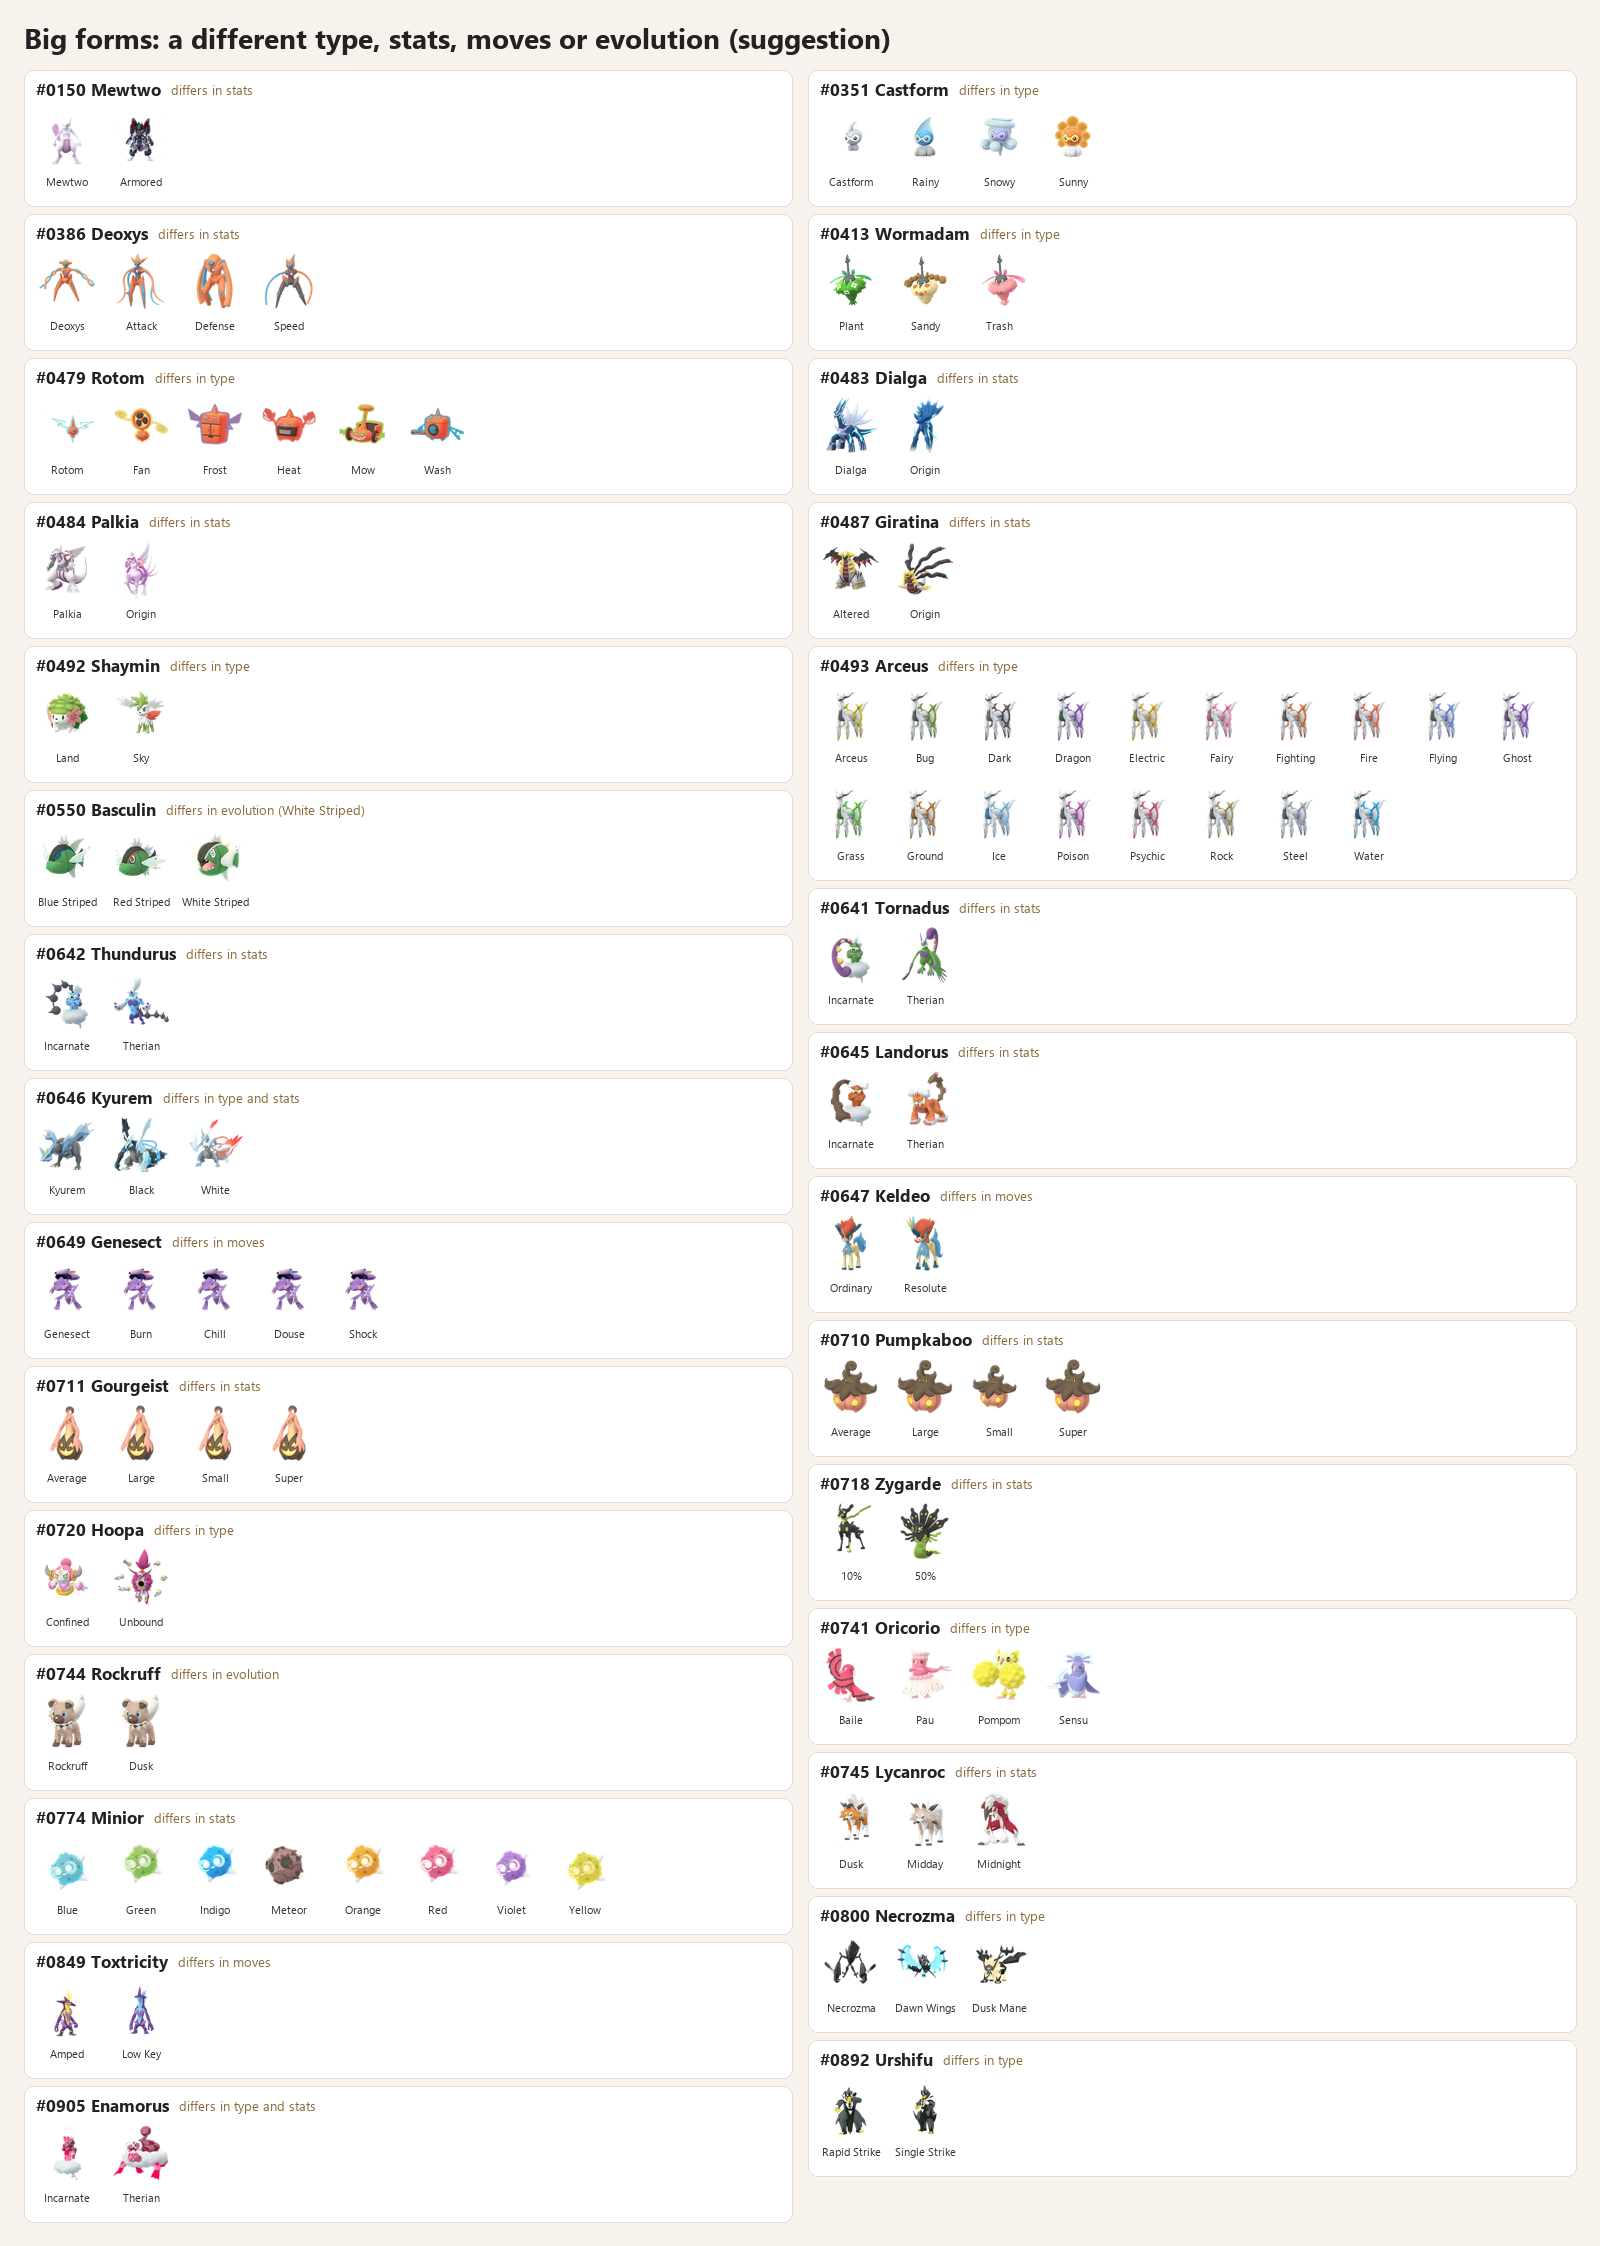
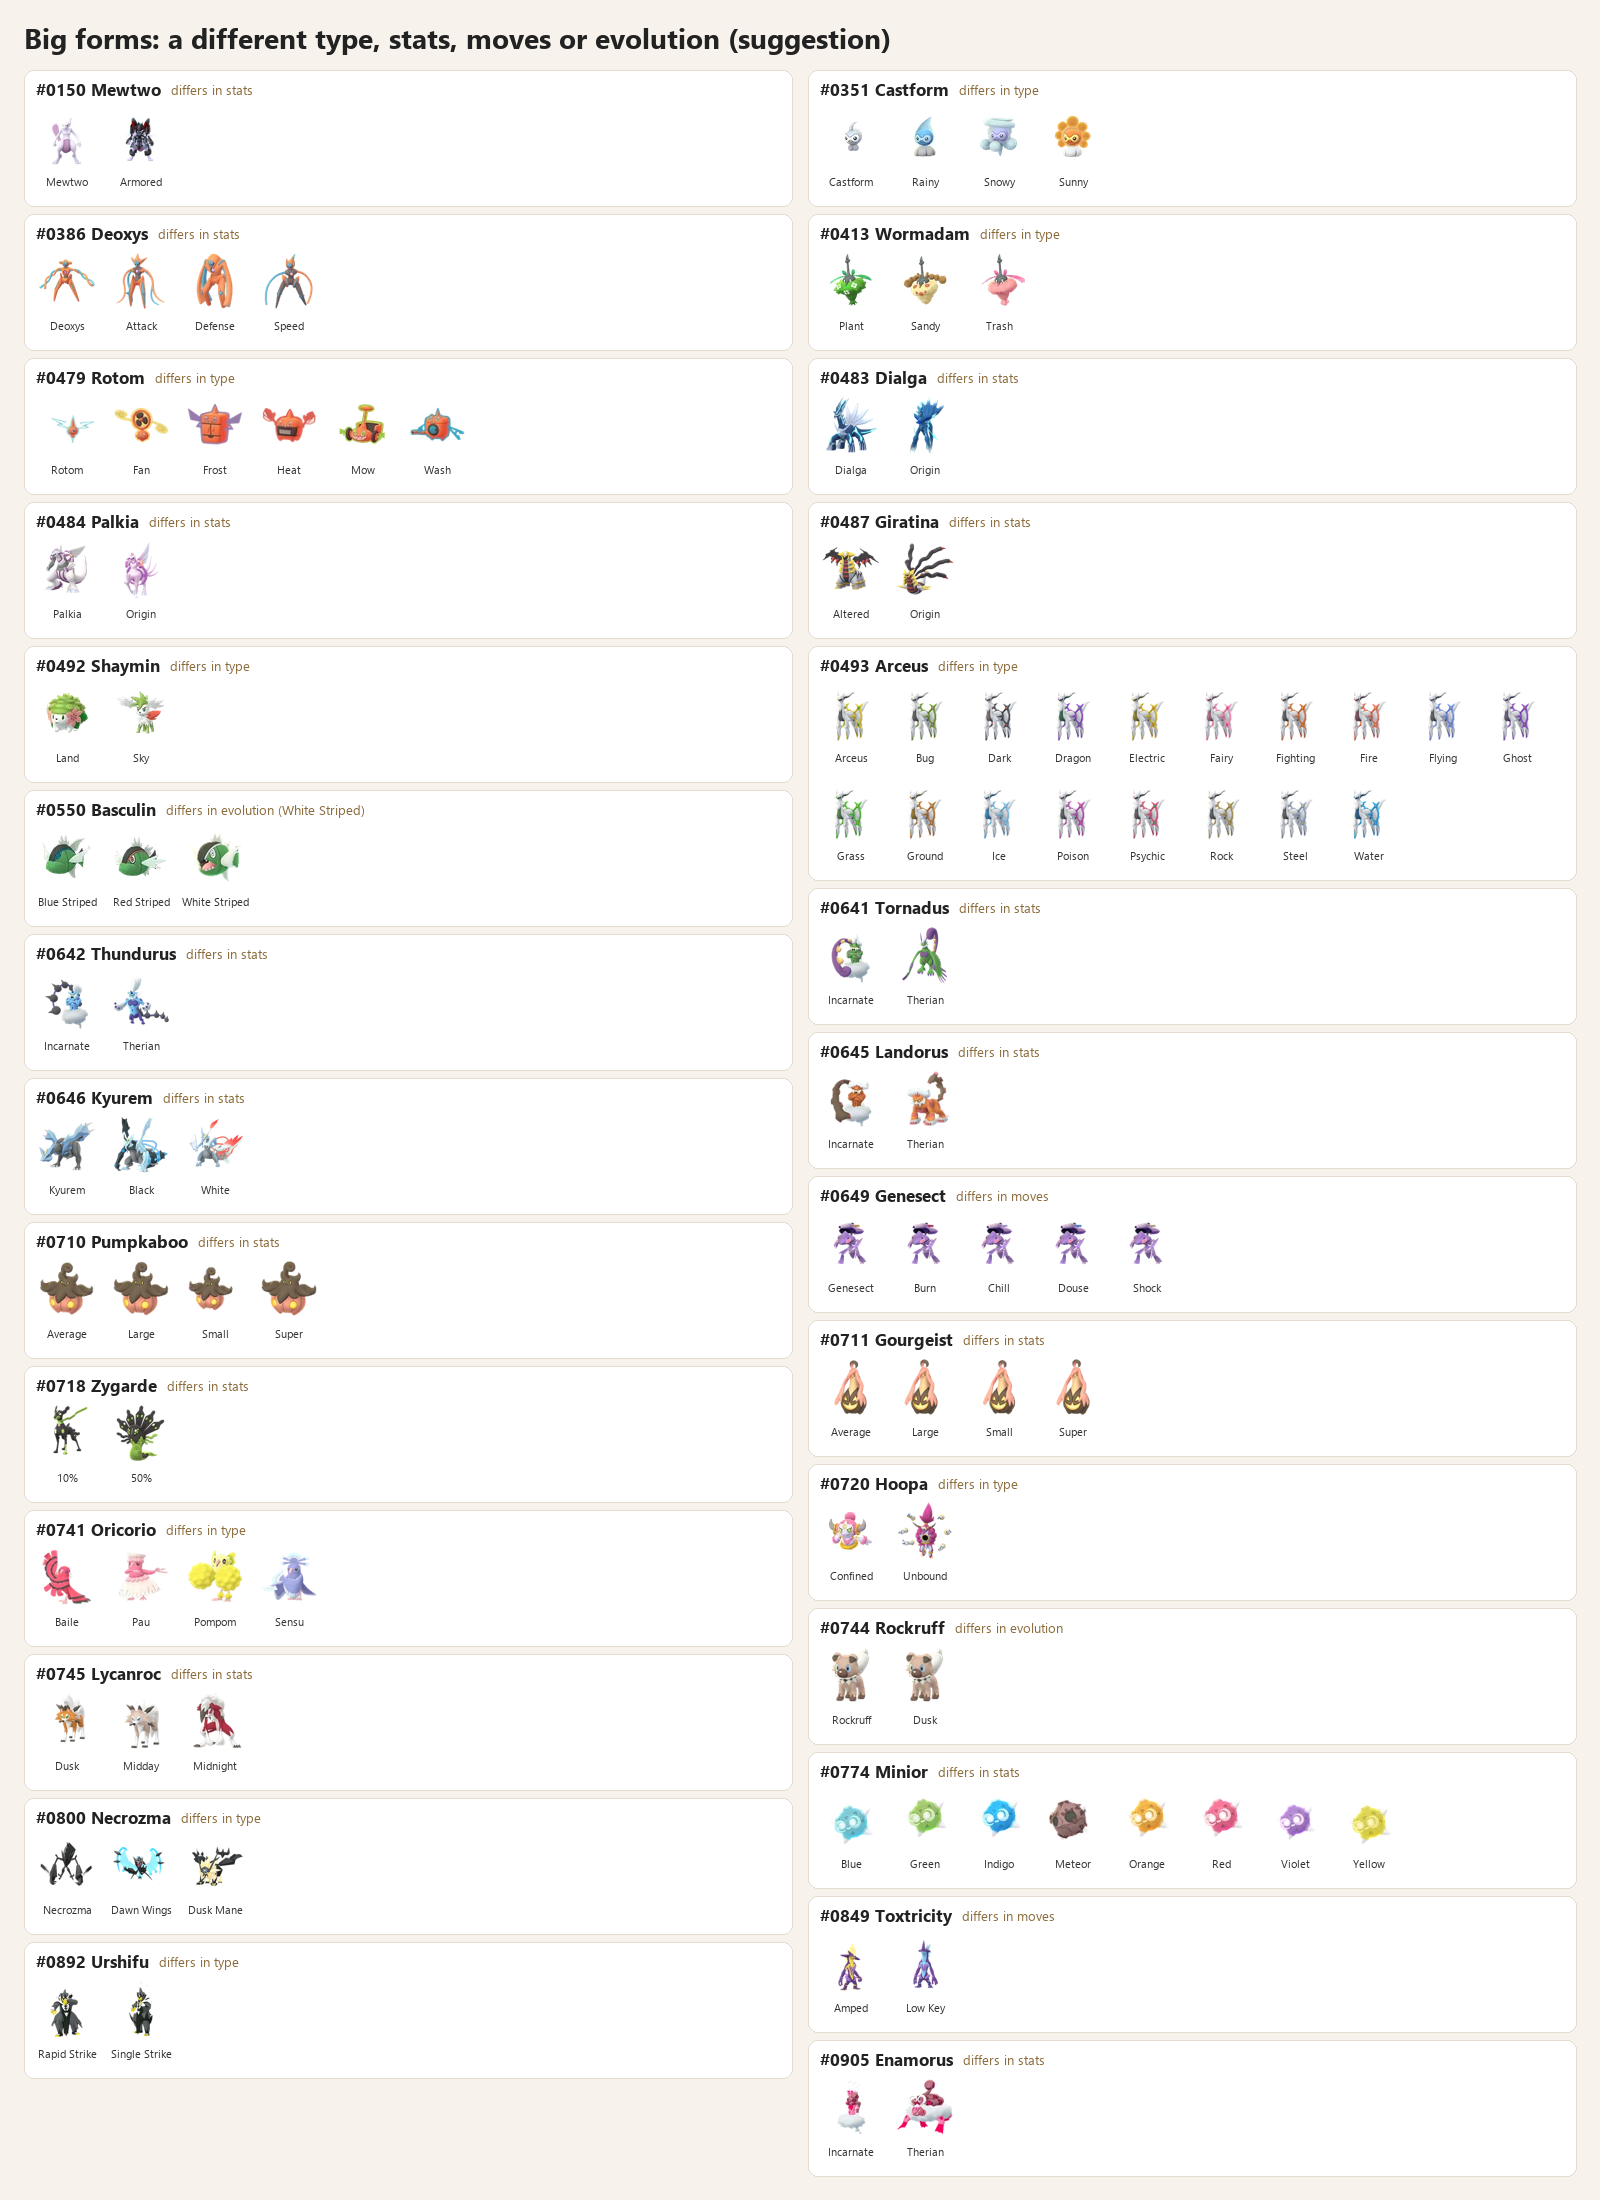
Forms list: Kyurem and Enamorus differ in stats only (same type); Keldeo's Resolute form is a look

diff --git a/tools/forms_sheet.py b/tools/forms_sheet.py
@@ -11,9 +11,9 @@ for e in sorted(d, key=lambda e: e['dex']):
 multi = {k: v for k, v in by.items() if len(v) > 1}
 # suggestion: forms that are a different battle form (another type, stats or moves in the games) vs ones that only look different
 BIG = {150: 'stats', 351: 'type', 386: 'stats', 413: 'type', 479: 'type', 483: 'stats', 484: 'stats', 487: 'stats', 492: 'type',
-       493: 'type', 550: 'evolution (White Striped)', 555: 'type', 641: 'stats', 642: 'stats', 645: 'stats', 646: 'type and stats', 647: 'moves',
+       493: 'type', 550: 'evolution (White Striped)', 555: 'type', 641: 'stats', 642: 'stats', 645: 'stats', 646: 'stats',
        649: 'moves', 718: 'stats', 720: 'type', 741: 'type', 744: 'evolution', 745: 'stats', 774: 'stats', 800: 'type', 849: 'moves',
-       892: 'type', 905: 'type and stats', 710: 'stats', 711: 'stats'}
+       892: 'type', 905: 'stats', 710: 'stats', 711: 'stats'}
 spr = lambda img: next((p for p in (f'{R}/site/sprites/{img}.webp', f'{R}/site/sprites/{img}.png') if os.path.exists(p)), None)
 F = lambda n, b=False: ImageFont.truetype('C:/Windows/Fonts/segoeuib.ttf' if b else 'C:/Windows/Fonts/segoeui.ttf', n)
 def label(e): return e.get('form') or e['name']

diff --git a/for-jemma/forms-to-decide.md b/for-jemma/forms-to-decide.md
@@ -20,8 +20,7 @@ The split into “big” and “looks only” is Claude’s suggestion (from the
 - [ ] **#0641 Tornadus** (stats): Incarnate, Therian
 - [ ] **#0642 Thundurus** (stats): Incarnate, Therian
 - [ ] **#0645 Landorus** (stats): Incarnate, Therian
-- [ ] **#0646 Kyurem** (type and stats): Kyurem, Black, White
-- [ ] **#0647 Keldeo** (moves): Ordinary, Resolute
+- [ ] **#0646 Kyurem** (stats): Kyurem, Black, White
 - [ ] **#0649 Genesect** (moves): Genesect, Burn, Chill, Douse, Shock
 - [ ] **#0710 Pumpkaboo** (stats): Average, Large, Small, Super
 - [ ] **#0711 Gourgeist** (stats): Average, Large, Small, Super
@@ -34,7 +33,7 @@ The split into “big” and “looks only” is Claude’s suggestion (from the
 - [ ] **#0800 Necrozma** (type): Necrozma, Dawn Wings, Dusk Mane
 - [ ] **#0849 Toxtricity** (moves): Amped, Low Key
 - [ ] **#0892 Urshifu** (type): Rapid Strike, Single Strike
-- [ ] **#0905 Enamorus** (type and stats): Incarnate, Therian
+- [ ] **#0905 Enamorus** (stats): Incarnate, Therian
 
 ## Forms that only look different (suggestion)
 
@@ -46,6 +45,7 @@ The split into “big” and “looks only” is Claude’s suggestion (from the
 - [ ] **#0423 Gastrodon**: East Sea, West Sea
 - [ ] **#0585 Deerling**: Autumn, Spring, Summer, Winter
 - [ ] **#0586 Sawsbuck**: Autumn, Spring, Summer, Winter
+- [ ] **#0647 Keldeo**: Ordinary, Resolute
 - [ ] **#0664 Scatterbug**: Archipelago, Continental, Elegant, Fancy, Garden, High Plains, Icy Snow, Jungle, Marine, Meadow, Modern, Monsoon, Ocean, Poké Ball, Polar, River, Sandstorm, Savanna, Sun, Tundra
 - [ ] **#0665 Spewpa**: Archipelago, Continental, Elegant, Fancy, Garden, High Plains, Icy Snow, Jungle, Marine, Meadow, Modern, Monsoon, Ocean, Poké Ball, Polar, River, Sandstorm, Savanna, Sun, Tundra
 - [ ] **#0666 Vivillon**: Archipelago, Continental, Elegant, Fancy, Garden, High Plains, Icy Snow, Jungle, Marine, Meadow, Modern, Monsoon, Ocean, Poké Ball, Polar, River, Sandstorm, Savanna, Sun, Tundra
